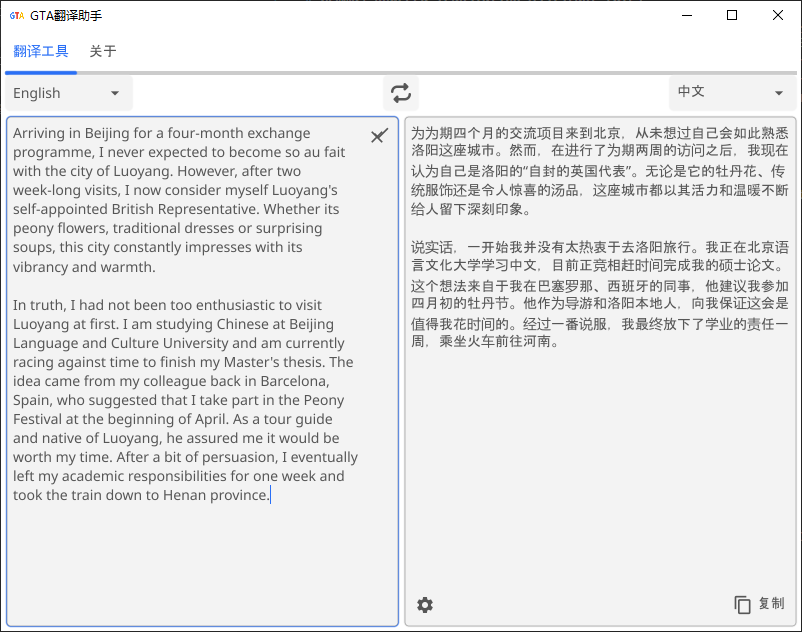
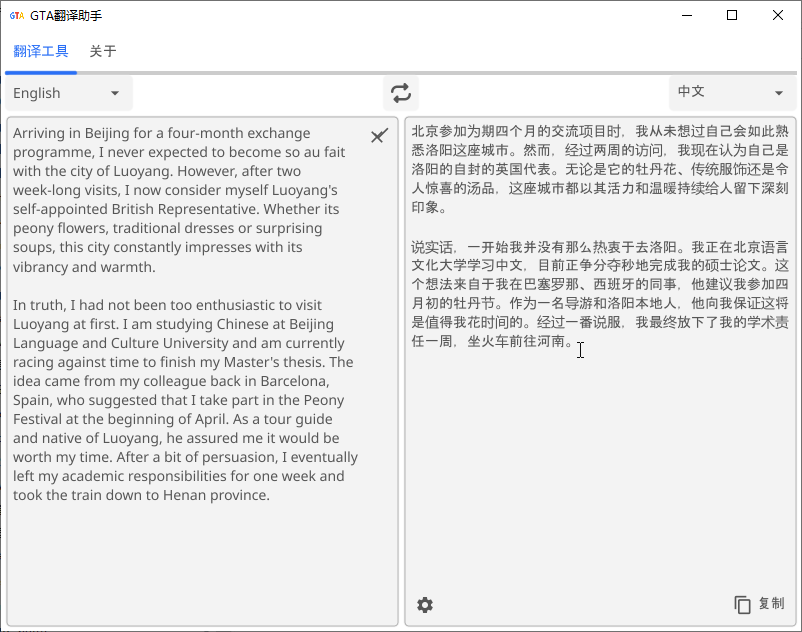
fix: handling of stream message reception

Changed region(s): [[0.0, 0.0, 1.0, 1.0]]

diff --git a/internal/controller/handler.go b/internal/controller/handler.go
@@ -268,8 +268,7 @@ func (h *Handler) SettingsButtonClick() {
 
 func (h *Handler) translate(addr, inputLang, outputLang, text string) (string, error) {
 	var (
-		responses []StreamResponse
-		rest      []string
+		content strings.Builder
 	)
 	conn, err := grpc.NewClient(addr, grpc.WithTransportCredentials(insecure.NewCredentials()))
 	if err != nil {
@@ -307,16 +306,10 @@ func (h *Handler) translate(addr, inputLang, outputLang, text string) (string, e
 		}
 
 		// Record received message
-		response := StreamResponse{
-			Message:   res.Message,
-			Timestamp: time.Now(),
-			Direction: "received",
-		}
-		responses = append(responses, response)
-		rest = append(rest, response.Message)
+		content.WriteString(res.Message)
 	}
 
-	return strings.Join(rest, ""), nil
+	return content.String(), nil
 }
 
 func createPrompt(source, target, text string) string {
